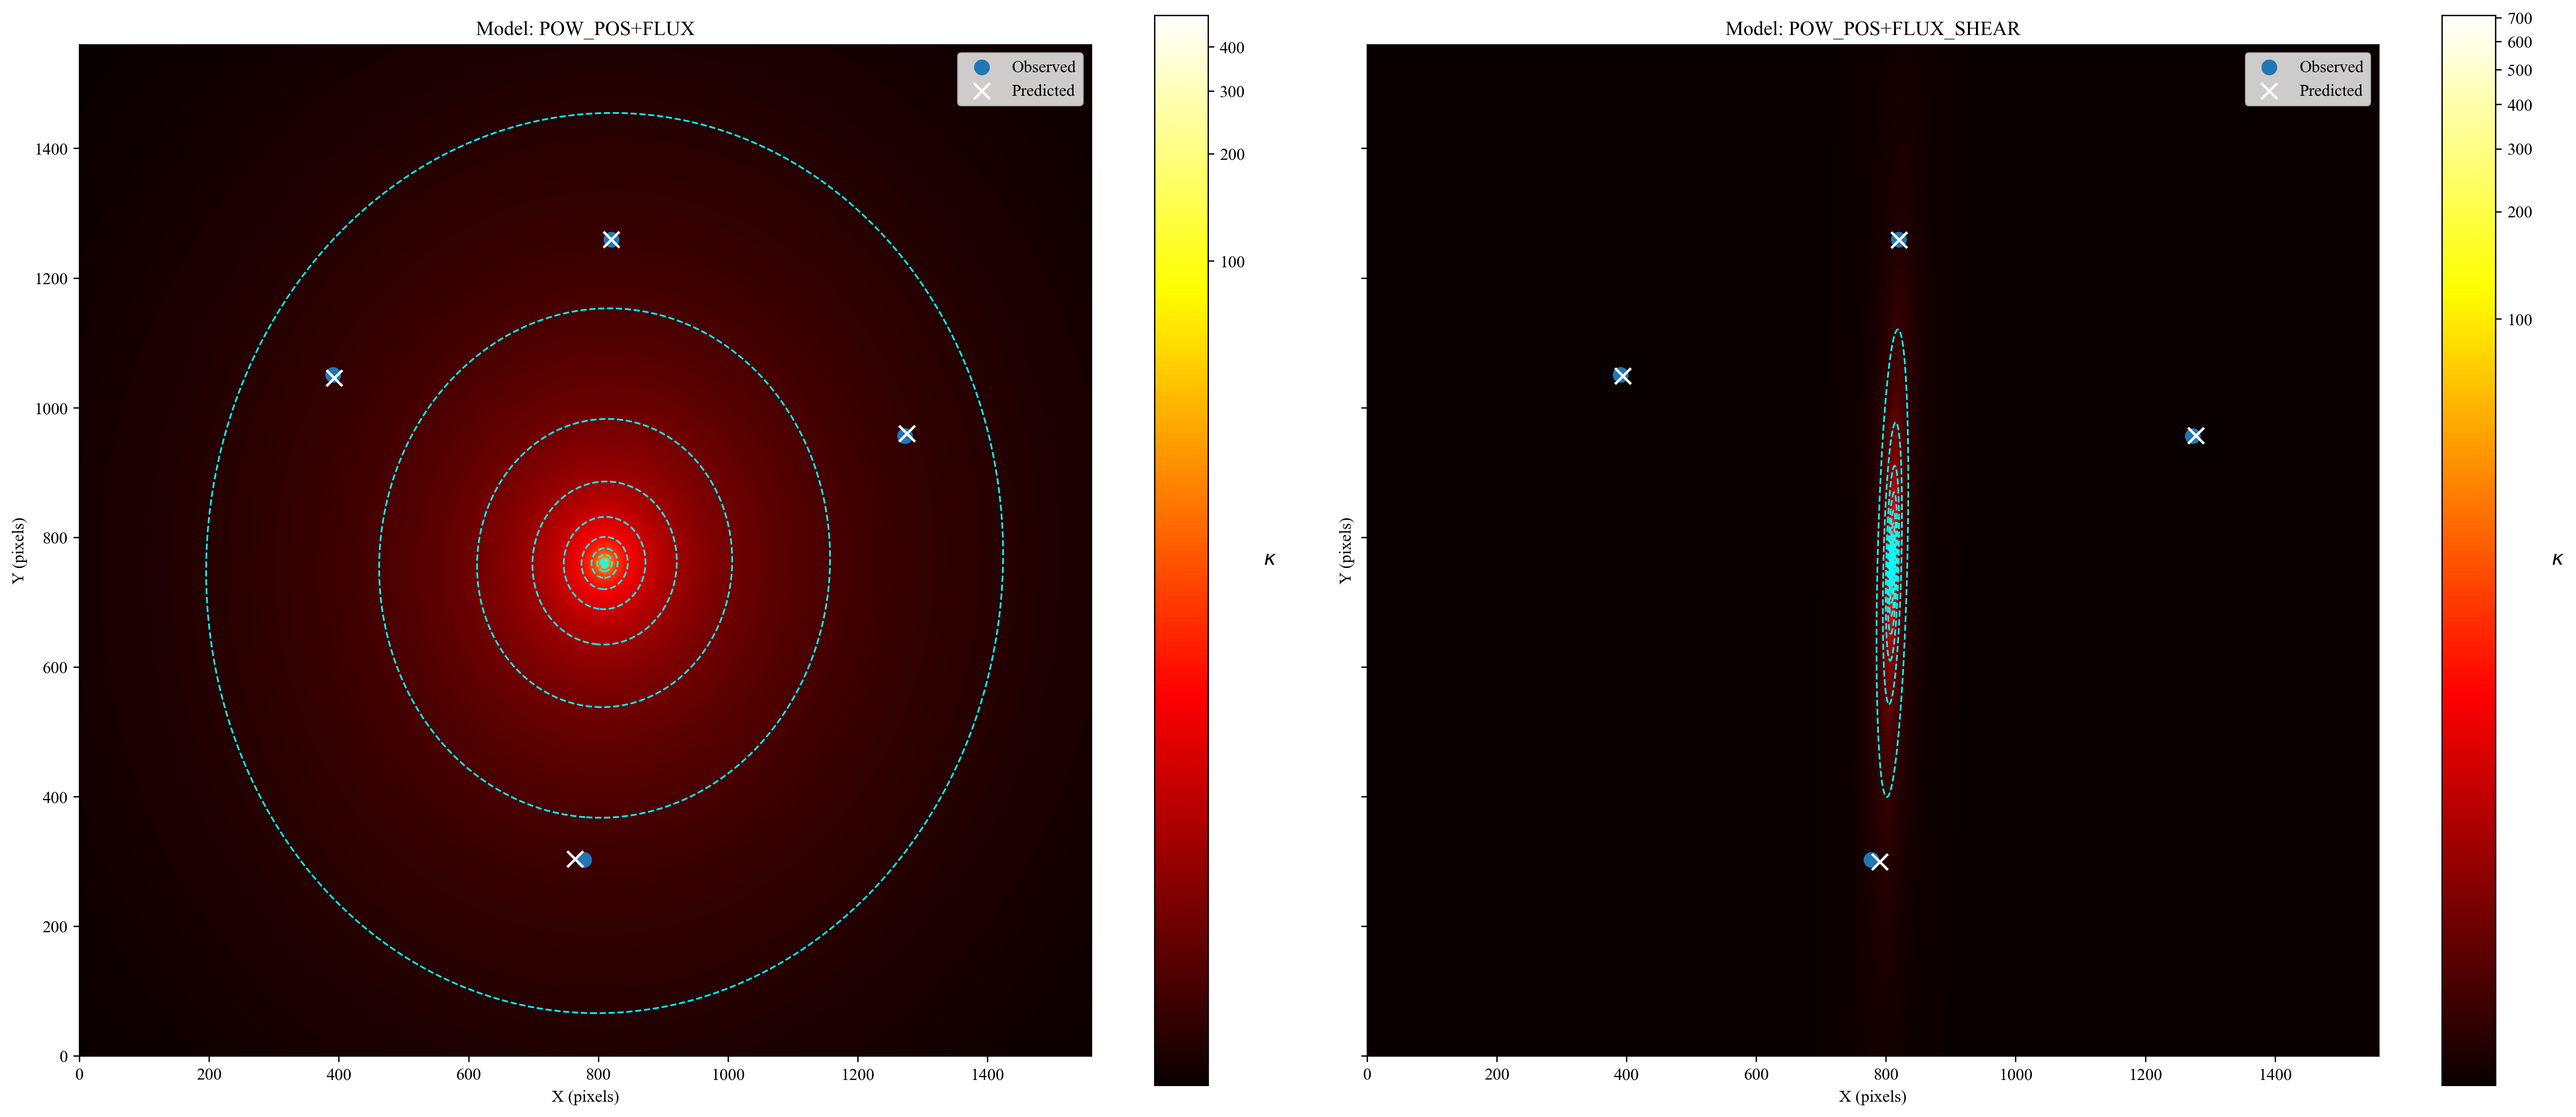
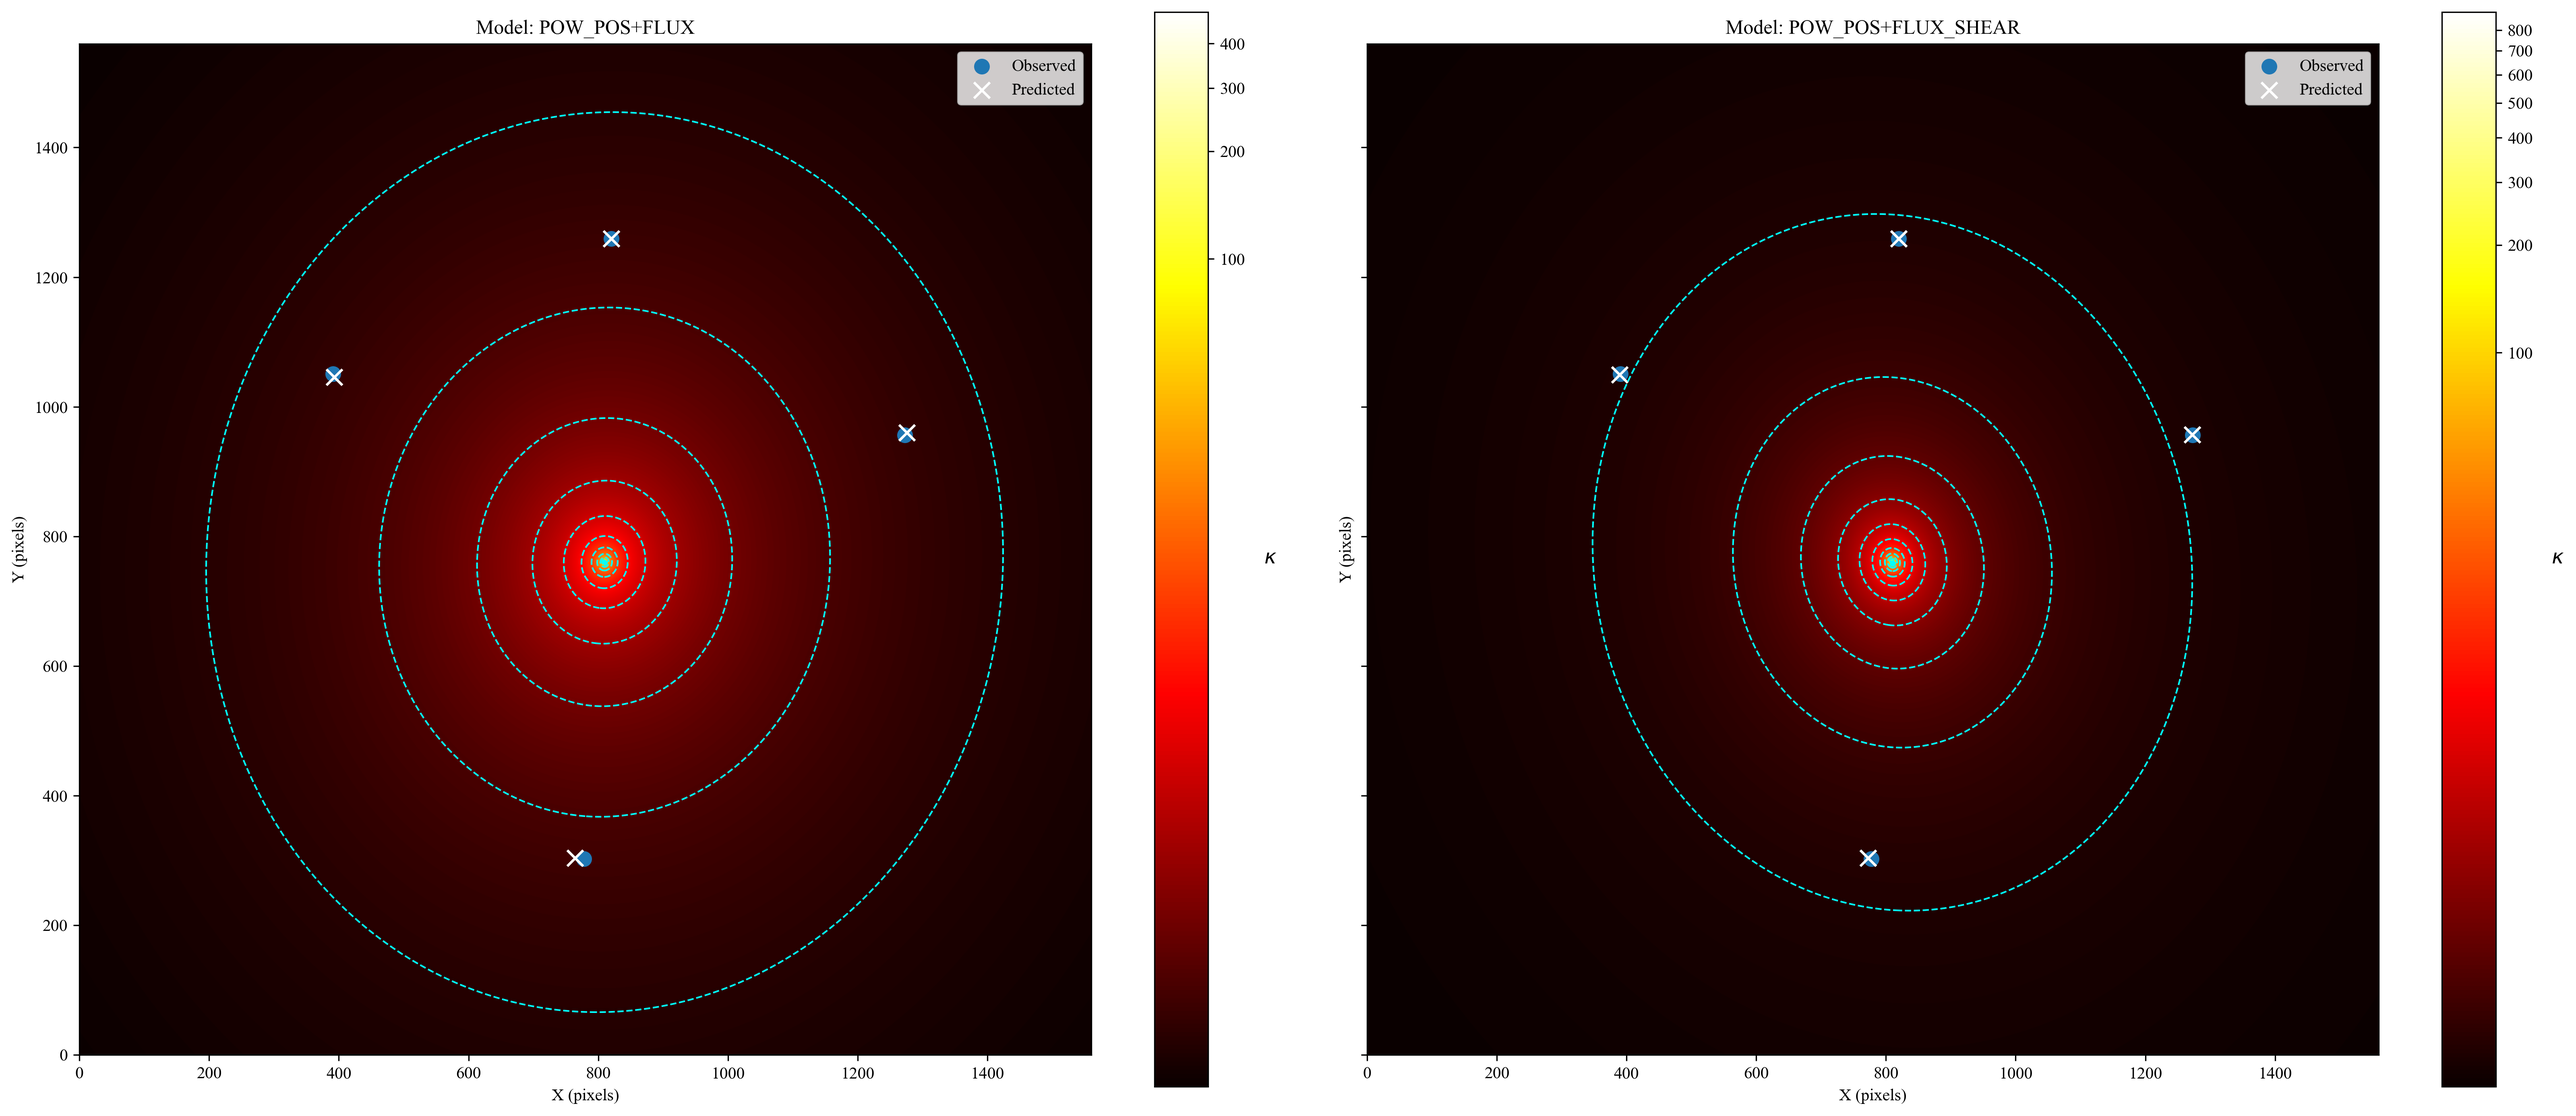
pow pos+flux comparison run

diff --git a/kappa_shear_glafic.py b/kappa_shear_glafic.py
@@ -11,9 +11,9 @@ glafic.set_secondary('hvary          0', verb = 0)
 glafic.set_secondary('ran_seed -122000', verb = 0)
 
 glafic.startup_setnum(2, 0, 1)
-glafic.set_lens(1, 'pow', 0.2613, 1.000000e+00, 2.081000e+01, 2.076000e+01, 9.364637e-01, -1.359711e+00, 3.179559e-01, 2.930644e+00)
-glafic.set_lens(2, 'pert', 0.2613, 1.000000e+00, 2.085513e+01, 2.048605e+01, 1.749327e-02, 1.718205e+02, 0.000000e+00, 5.887661e-01)
-glafic.set_point(1, 1.000, 2.084161e+01, 2.061858e+01)
+glafic.set_lens(1, 'pow', 0.2613, 1.000000e+00, 2.081000e+01, 2.076000e+01, 1.483179e-01, 1.013373e+01, 4.290774e-01, 2.200000e+00)
+glafic.set_lens(2, 'pert', 0.2613, 1.000000e+00, 2.090772e+01, 2.060688e+01, 2.235114e-02, 1.454115e+02, 0.000000e+00, 1.488050e-01)
+glafic.set_point(1, 1.000, 2.083151e+01, 2.075728e+01)
 
 glafic.setopt_lens(1, 0, 0, 0, 0, 0, 0, 0, 0)
 glafic.setopt_lens(2, 0, 0, 0, 0, 0, 0, 0, 0)
